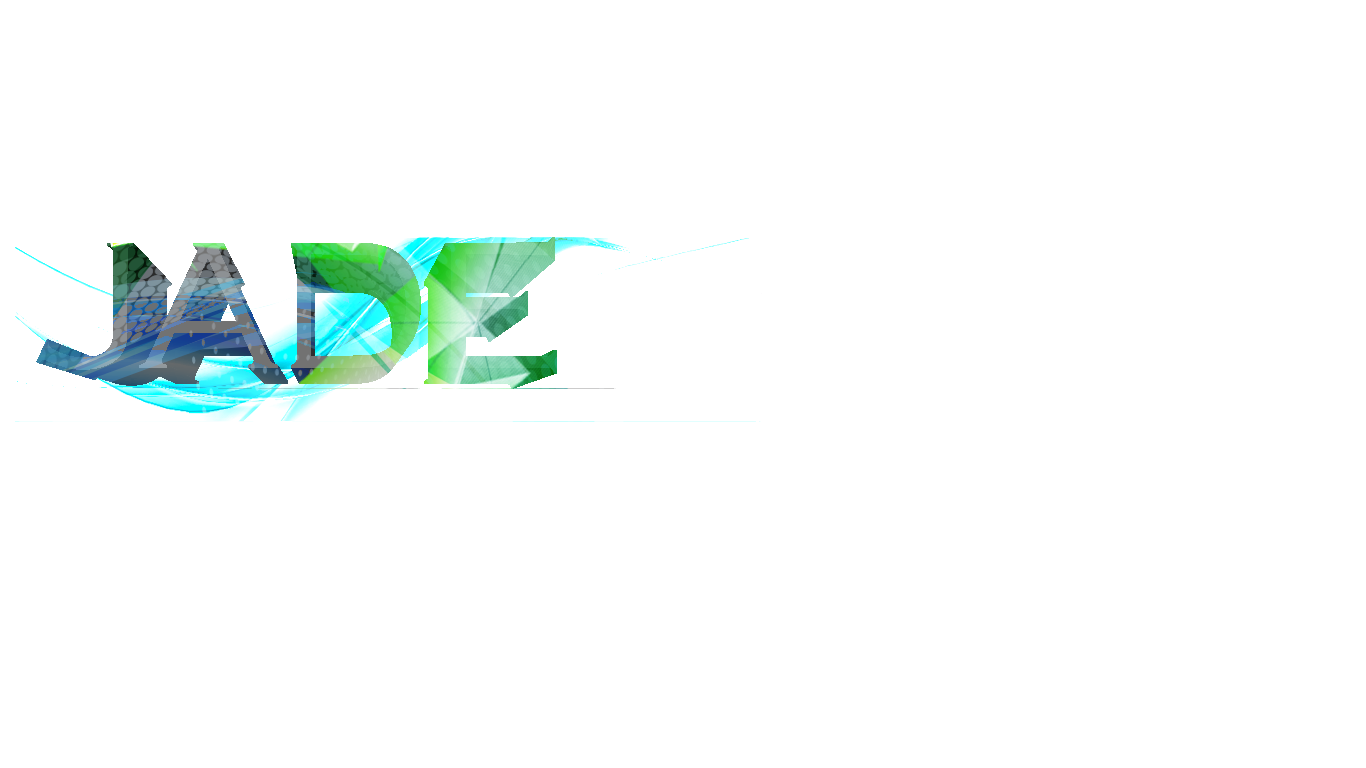
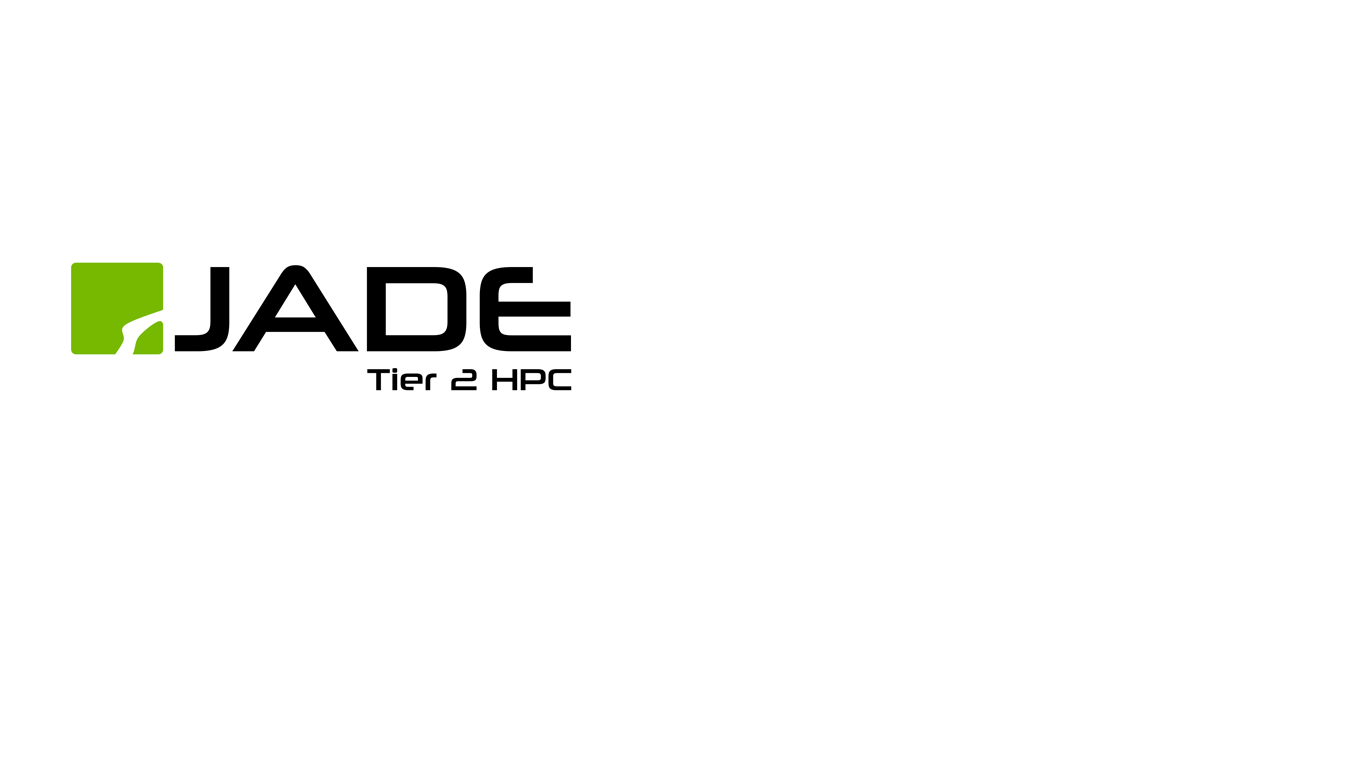
Site images updated

Changed region(s): [[0.0307, 0.2812, 0.4612, 0.5625]]

diff --git a/_includes/header.html b/_includes/header.html
@@ -15,18 +15,18 @@
             <span class="icon-bar"></span>
             </button>
             <a class="navbar-brand" href="https://jade.github.io/">
-              <img src="{{ site.baseurl }}/img/jade-logo.png" alt="Logo" width="100%" height="100%">
+              <img src="{{ site.logo }}" alt="Logo" width="300px" height="100px">
             </a>
           </div>
             <!-- Collect the nav links, forms, and other content for toggling -->
             <div class="collapse navbar-collapse" id="bs-example-navbar-collapse-1">
               <ul class="nav navbar-nav navbar-right">
-                <li><a href="{{ site.url }}/{{ site.baseurl }}/">Home</a></li>
-                <li><a href="{{ site.url }}/{{ site.baseurl }}/consortium">Consortium</a></li>
-                <li><a href="{{ site.url }}/{{ site.baseurl }}/access">Access</a></li>
-                <li><a href="{{ site.url }}/{{ site.baseurl }}/news">News and Events</a></li>
-                <li><a href="{{ site.url }}/{{ site.baseurl }}/support">Support</a></li>
-                <li><a href="{{ site.url }}/{{ site.baseurl }}/links">Useful links</a></li>
+                <li><a href="{{ site.baseurl }}/">Home</a></li>
+                <li><a href="{{ site.baseurl }}/consortium">Consortium</a></li>
+                <li><a href="{{ site.baseurl }}/access">Access</a></li>
+                <li><a href="{{ site.baseurl }}/news">News and Events</a></li>
+                <li><a href="{{ site.baseurl }}/support">Support</a></li>
+                <li><a href="{{ site.baseurl }}/links">Useful links</a></li>
               </ul>
             </div><!-- /.navbar-collapse -->
           </div><!-- /.container-fluid -->

diff --git a/index.html b/index.html
@@ -55,10 +55,9 @@ This system design is also ideal for a large number of molecular dynamics applic
       </div><!-- .col-md-7 close -->
       <div class="col-md-5 col-sm-12">
         <div class="block">
-          <img src="" alt="Img">
-          <img src="img/DGX1.jpg" alt="Img">
-          <img src="img/Nvidia-DGX.jpg" alt="Img">
-       <img src="img/p100.jpg" alt="Img">  
+          <img src="./img/DGX1.jpg" alt="Img">
+          <img src="./img/Nvidia-DGX.jpg" alt="Img">
+       <img src="./img/p100.jpg" alt="Img">  
         </div>
       </div><!-- .col-md-5 close -->
     </div>

diff --git a/css/airspace.css b/css/airspace.css
@@ -231,7 +231,7 @@ font header .navbar-default .navbar-nav li a:hover {
 	Feature Start
 --*/
 #feature {
-  background: url("../img/featue-bg.png");
+  background: url("/img/featue-bg.png");
   background-position: 50% 94px;
   width: 100%;
   display: block;

diff --git a/css/style.css b/css/style.css
@@ -4,6 +4,13 @@
  *
  */
 
+header .navbar{
+  margin-bottom: 0px;
+  border: 0px;
+  height: 100px;
+}
+
+
  .italic {
    font-style: italic;
  }
